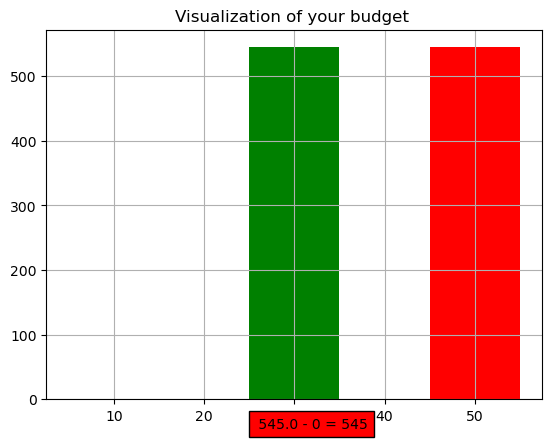
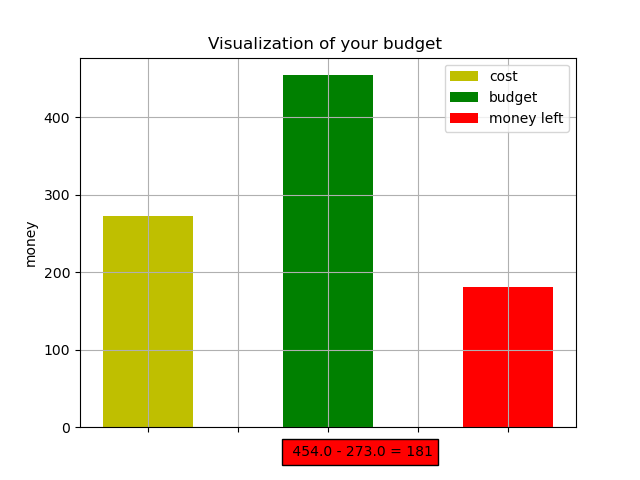
read me file done

diff --git a/venv/ShoppingList.py b/venv/ShoppingList.py
@@ -1,13 +1,12 @@
 import sqlite3
 from tabulate import tabulate
 import os
-import glob
 import pandas as pd
 import csv
-from pandas import DataFrame, merge
+from pandas import DataFrame
 import seaborn as sns
 import matplotlib.pyplot as plt
-import numpy as np
+
 
 
 # Creating and connect to database
@@ -179,7 +178,7 @@ class TacoFriday:
             print('')
             print("\u001b[33;1m")
             item = input('Enter item: ')
-            price = int(input('Enter price: '))
+            price = float(input('Enter price: '))
             c.execute("insert into taco_friday(item, price) values(?, ?)", (item, price))
             conn.commit()
 
@@ -473,26 +472,25 @@ class TacoFriday:
 
         subjects = ['cost', 'budget', 'left']
         bar_with = 10
-        indx = np.arange(len(subjects))
-        money_label = np.arange(-200, 500, 50)
-        x_label = np.arange(20, 120, 40)
+
 
         fig, ax = plt.subplots()
         ax.grid(zorder=0)
-        item_cost = ax.bar(10, cost_of_item, bar_with, color='y', label='cost')
-        bud = ax.bar(30, user_data_df, bar_with, color='g', label='budget')
-        left = ax.bar(50, user_data_df - cost_of_item, bar_with, color='r', label='money left')
+        ax.bar(10, cost_of_item, bar_with, color='y', label='cost')
+        ax.bar(30, user_data_df, bar_with, color='g', label='budget')
+        ax.bar(50, user_data_df - cost_of_item, bar_with, color='r', label='money left')
 
         plt.title('Visualization of your budget ')
 
-        side_text = plt.figtext(0.45, 0.05, f" {user_data_df} - {cost_of_item} = {after_payment}",
+        plt.figtext(0.45, 0.05, f" {user_data_df} - {cost_of_item} = {after_payment}",
                                     bbox=dict(facecolor='red'))
-        fig.savefig('../asset/images/budget.png', bbox_extra_artists=(side_text,), bbox_inches='tight')
+
 
         ax.set_ylabel('money')
 
         ax.set_xticklabels('')
         ax.legend()
+        fig.savefig('../asset/images/budget.png')
         plt.show()
 
         print(
